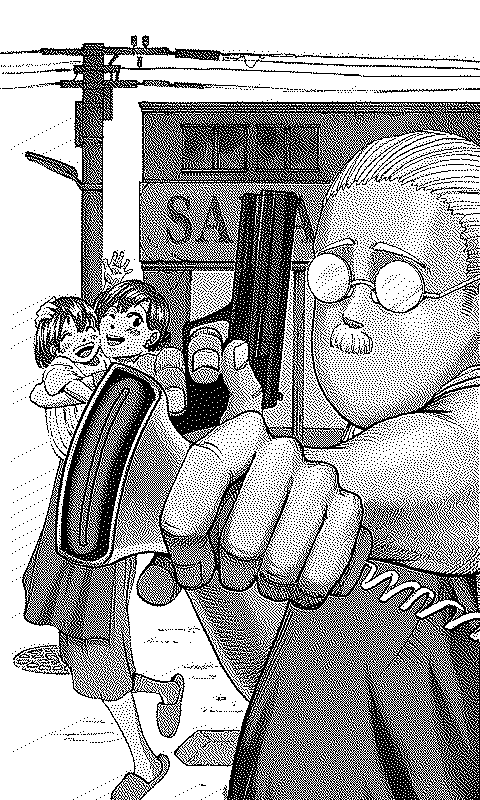
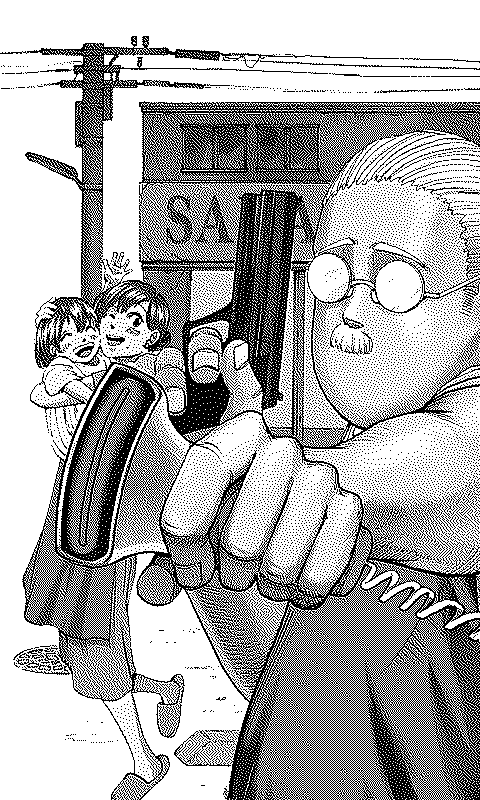
refactor landscape splitting
Replaced --landscape-rtl with --landscape-page-split <none|ltr|rtl>
Updated all dither sample images.

web2xtc.py: Restricted the +3 page offset to only apply when both --dynamic and --viewport mobile are used.

Changed region(s): [[0.0312, 0.0625, 1.0, 1.0], [0.375, 0.0625, 0.4688, 0.0938], [0.2812, 0.0312, 0.3125, 0.0938]]

diff --git a/cbz2xtcpoppler.py b/cbz2xtcpoppler.py
@@ -793,6 +793,9 @@ def optimize_image(img_data, output_path_base, page_num, suffix="", overlap_perc
         # We split most pages that are vertical. 
         should_this_split = True if not is_solid else False
         
+        if is_landscape and LANDSCAPE_PAGE_SPLIT == 'none':
+            should_this_split = False
+        
         if str(page_num) in SPLIT_SPREADS_PAGES:
             if suffix == "":  
                 # we haven't recursed, this is top level.
@@ -867,7 +870,7 @@ def optimize_image(img_data, output_path_base, page_num, suffix="", overlap_perc
                 # In rotated image (-90), Top (v=0) is Left, Bottom (v=max) is Right.
                 v_list = list(range(number_of_v_segments))
                 # Default is LTR (Left then Right). RTL flag reverses this.
-                is_rtl = LANDSCAPE_RTL and not MANHWA
+                is_rtl = (LANDSCAPE_PAGE_SPLIT == 'rtl') and not MANHWA
                 if is_rtl:
                     v_list.reverse() # RTL: Left then Right (Swapped)
 
@@ -899,7 +902,7 @@ def optimize_image(img_data, output_path_base, page_num, suffix="", overlap_perc
                 part2_rotated = part2.rotate(rot, expand=True)
                 
                 # Default is LTR. RTL reverses this for landscape.
-                is_rtl = LANDSCAPE_RTL and not MANHWA
+                is_rtl = (LANDSCAPE_PAGE_SPLIT == 'rtl') and not MANHWA
                 if is_landscape:
                     if is_rtl:
                         # RTL: Left (part2) then Right (part1)
@@ -1553,7 +1556,7 @@ def main():
         print("\n  --vsplit-target <#>   try to split page vertically into # segments.")
         print("\n  --vsplit-min-overlap <float>   minimum vertical overlap between segments.")
         print("\n  --sample-set <pagenum> ...  Build a spread of contrast samples.")
-        print("\n  --landscape-rtl   Process landscape spreads from Right to Left.")
+        print("\n  --landscape-page-split <none|ltr|rtl>   Split wide pages (default: none).")
         print("\n  --manhwa <overlap-percent>  Process as long-strip webtoon. Optionally set overlap percentage (default 40). Example: --manhwa 50")
         print("\n  --clean       Automatically delete temporary PNG files after conversion.")
         print("\n  --compress    Compress output using LZ4 into an .xtcz file.")
@@ -1589,11 +1592,11 @@ def main():
     global SAMPLE_SET
     global SAMPLE_PAGES
     global PADDING_COLOR
-    global LANDSCAPE_RTL
+    global LANDSCAPE_PAGE_SPLIT
     global MANHWA
     global MANHWA_OVERLAP
     global COMPRESS
-    
+
     # New globals
     global XTC_MODE
     global DITHER_ALGO
@@ -1604,13 +1607,24 @@ def main():
 
     clean_temp = "--clean" in sys.argv
     INVERT_COLORS = "--invert" in sys.argv
-    LANDSCAPE_RTL = "--landscape-rtl" in sys.argv
     MANHWA = "--manhwa" in sys.argv
     COMPRESS = "--compress" in sys.argv
     MANHWA_OVERLAP = 40
-    
-    if "--manhwa" in sys.argv:
+    LANDSCAPE_PAGE_SPLIT = 'none'
+
+    if "--landscape-page-split" in sys.argv:
         try:
+            idx = sys.argv.index("--landscape-page-split")
+            if idx + 1 < len(sys.argv) and not sys.argv[idx+1].startswith("--"):
+                val = sys.argv[idx + 1].lower()
+                if val in ['none', 'ltr', 'rtl']:
+                    LANDSCAPE_PAGE_SPLIT = val
+                else:
+                    print(f"Warning: Unknown value '{val}' for --landscape-page-split, using default 'none'")
+        except (ValueError, IndexError):
+            print("Warning: --landscape-page-split flag missing value, using default 'none'")
+
+    if "--manhwa" in sys.argv:        try:
             idx = sys.argv.index("--manhwa")
             if idx + 1 < len(sys.argv) and not sys.argv[idx+1].startswith("--"):
                 MANHWA_OVERLAP = int(sys.argv[idx + 1])
@@ -1695,8 +1709,8 @@ def main():
     while i < len(sys.argv):
         arg = sys.argv[i]
         # Skip value args we already handled or boolean args
-        if arg in ["--dither", "--2bit", "--no-dither", "--clean", "--overlap", "--split-all", "--pad-black", "--include-overviews", "--sideways-overviews", "--gamma", "--invert", "--downscale", "--compress"]:
-            if arg == "--dither" or arg == "--gamma" or arg == "--downscale":
+        if arg in ["--dither", "--2bit", "--no-dither", "--clean", "--overlap", "--split-all", "--pad-black", "--include-overviews", "--sideways-overviews", "--gamma", "--invert", "--downscale", "--compress", "--landscape-page-split"]:
+            if arg == "--dither" or arg == "--gamma" or arg == "--downscale" or arg == "--landscape-page-split":
                  i += 1 # skip value
             # booleans are already handled
         elif arg == "--split-spreads":

diff --git a/web2xtc.py b/web2xtc.py
@@ -758,9 +758,12 @@ def optimize_image(img_data, output_path_base, page_num, suffix="", overlap_perc
         # Handle landscape images (Spreads)
         is_landscape = width >= height
 
-        # We split most pages that are vertical. 
+        # We split most pages that are vertical.
         should_this_split = True if not is_solid else False
-        
+
+        if is_landscape and LANDSCAPE_PAGE_SPLIT == 'none':
+            should_this_split = False
+
         if str(page_num) in SPLIT_SPREADS_PAGES:
             if suffix == "":  
                 # we haven't recursed, this is top level.
@@ -835,7 +838,7 @@ def optimize_image(img_data, output_path_base, page_num, suffix="", overlap_perc
                 # In rotated image (-90), Top (v=0) is Left, Bottom (v=max) is Right.
                 v_list = list(range(number_of_v_segments))
                 # Default is LTR (Left then Right). RTL flag reverses this.
-                is_rtl = LANDSCAPE_RTL and not MANHWA
+                is_rtl = (LANDSCAPE_PAGE_SPLIT == 'rtl') and not MANHWA
                 if is_rtl:
                     v_list.reverse() # RTL: Left then Right (Swapped)
 
@@ -868,7 +871,7 @@ def optimize_image(img_data, output_path_base, page_num, suffix="", overlap_perc
                 part2_rotated = part2.rotate(rot, expand=True)
                 
                 # Default is LTR. RTL reverses this for landscape.
-                is_rtl = LANDSCAPE_RTL and not MANHWA
+                is_rtl = (LANDSCAPE_PAGE_SPLIT == 'rtl') and not MANHWA
                 if is_landscape:
                     if is_rtl:
                         # RTL: Left (part2) then Right (part1)
@@ -1517,8 +1520,8 @@ def convert_png_folder_to_xtc(png_folder, output_file, source_file=None):
     for orig_page in sorted(page_ranges.keys()):
         entry = page_ranges[orig_page]
         
-        # Apply +3 page offset for chapters (User request) - Mobile Viewport Only
-        if VIEWPORT == "mobile":
+        # Apply +3 page offset for chapters (User request) - Dynamic Mobile Only
+        if DYNAMIC_MODE and VIEWPORT == "mobile":
             start_val = min(entry['start'] + 3, total_files)
             end_val = min(entry['end'] + 3, total_files)
         else:
@@ -1691,7 +1694,7 @@ def main():
         print("\n  --vsplit-target <#>   try to split page vertically into # segments.")
         print("\n  --vsplit-min-overlap <float>   minimum vertical overlap between segments.")
         print("\n  --sample-set <pagenum> ...  Build a spread of contrast samples.")
-        print("\n  --landscape-rtl   Process landscape spreads from Right to Left.")
+        print("\n  --landscape-page-split <none|ltr|rtl>   Split wide pages (default: none).")
         print("\n  --manhwa <overlap-percent>  Process as long-strip webtoon. Optionally set overlap percentage (default 40). Example: --manhwa 50")
         print("\n  --clean       Automatically delete temporary PNG files after conversion.")
         print("\n  --compress    Compress output using LZ4 into an .xtcz file.")
@@ -1704,16 +1707,29 @@ def main():
     global INCLUDE_OVERVIEWS, SIDEWAYS_OVERVIEWS, SELECT_OVERVIEWS, SELECT_OV_PAGES
     global START_PAGE, STOP_PAGE, SAMPLE_SET, SAMPLE_PAGES
     global DESIRED_V_OVERLAP_SEGMENTS, SET_H_OVERLAP_SEGMENTS, MINIMUM_V_OVERLAP_PERCENT, SET_H_OVERLAP_PERCENT
-    global MAX_SPLIT_WIDTH, PADDING_COLOR, LANDSCAPE_RTL, MANHWA, MANHWA_OVERLAP
+    global MAX_SPLIT_WIDTH, PADDING_COLOR, LANDSCAPE_PAGE_SPLIT, MANHWA, MANHWA_OVERLAP
     global XTC_MODE, DITHER_ALGO, DOWNSCALE_FILTER, GAMMA_VALUE, INVERT_COLORS, VIEWPORT, COOKIES_FILE, DYNAMIC_MODE, PARALLEL_LINKS, WEBSITE_MODE, COMPRESS
 
     clean_temp = "--clean" in sys.argv
     INVERT_COLORS = "--invert" in sys.argv
-    LANDSCAPE_RTL = "--landscape-rtl" in sys.argv
     DYNAMIC_MODE = "--dynamic" in sys.argv
     PARALLEL_LINKS = "--parallel-links" in sys.argv
     COMPRESS = "--compress" in sys.argv    
     MANHWA_OVERLAP = 40
+    LANDSCAPE_PAGE_SPLIT = 'none'
+
+    if "--landscape-page-split" in sys.argv:
+        try:
+            idx = sys.argv.index("--landscape-page-split")
+            if idx + 1 < len(sys.argv) and not sys.argv[idx+1].startswith("--"):
+                val = sys.argv[idx + 1].lower()
+                if val in ['none', 'ltr', 'rtl']:
+                    LANDSCAPE_PAGE_SPLIT = val
+                else:
+                    print(f"Warning: Unknown value '{val}' for --landscape-page-split, using default 'none'")
+        except (ValueError, IndexError):
+            print("Warning: --landscape-page-split flag missing value, using default 'none'")
+
     if "--manhwa" in sys.argv:
         try:
             idx = sys.argv.index("--manhwa")

diff --git a/cbz2xtc.py b/cbz2xtc.py
@@ -791,6 +791,9 @@ def optimize_image(img_data, output_path_base, page_num, suffix="", overlap_perc
         # We split most pages that are vertical. 
         should_this_split = True if not is_solid else False
         
+        if is_landscape and LANDSCAPE_PAGE_SPLIT == 'none':
+            should_this_split = False
+        
         if str(page_num) in SPLIT_SPREADS_PAGES:
             if suffix == "":  
                 # we haven't recursed, this is top level.
@@ -903,7 +906,7 @@ def optimize_image(img_data, output_path_base, page_num, suffix="", overlap_perc
                 v_list = list(range(number_of_v_segments))
                 if is_landscape:
                     # Default is LTR (Left then Right). RTL flag reverses this.
-                    is_rtl = LANDSCAPE_RTL and not MANHWA
+                    is_rtl = (LANDSCAPE_PAGE_SPLIT == 'rtl') and not MANHWA
                     if is_rtl:
                         v_list.reverse() # RTL: Left then Right (Swapped)
 
@@ -938,7 +941,7 @@ def optimize_image(img_data, output_path_base, page_num, suffix="", overlap_perc
                 part2_rotated = part2.rotate(rot, expand=True)
                 
                 # Default is LTR. RTL reverses this for landscape.
-                is_rtl = LANDSCAPE_RTL and not MANHWA
+                is_rtl = (LANDSCAPE_PAGE_SPLIT == 'rtl') and not MANHWA
                 if is_landscape:
                     if is_rtl:
                         # RTL: Left (part2) then Right (part1)
@@ -1570,7 +1573,7 @@ def main():
         print("\n  --vsplit-target <#>   try to split page vertically into # segments.")
         print("\n  --vsplit-min-overlap <float>   minimum vertical overlap between segments.")
         print("\n  --sample-set <pagenum> ...  Build a spread of contrast samples.")
-        print("\n  --landscape-rtl   Process landscape spreads from Right to Left.")
+        print("\n  --landscape-page-split <none|ltr|rtl>   Split wide pages (default: none).")
         print("\n  --manhwa <overlap-percent>  Process as long-strip webtoon. Optionally set overlap percentage (default 40). Example: --manhwa 50")
         print("\n  --clean       Automatically delete temporary PNG files after conversion.")
         print("\n  --compress    Compress output using LZ4 into an .xtcz file.")
@@ -1606,7 +1609,7 @@ def main():
     global SAMPLE_SET
     global SAMPLE_PAGES
     global PADDING_COLOR
-    global LANDSCAPE_RTL
+    global LANDSCAPE_PAGE_SPLIT
     global MANHWA
     global MANHWA_OVERLAP
     global COMPRESS
@@ -1621,11 +1624,23 @@ def main():
 
     clean_temp = "--clean" in sys.argv
     INVERT_COLORS = "--invert" in sys.argv
-    LANDSCAPE_RTL = "--landscape-rtl" in sys.argv
     MANHWA = "--manhwa" in sys.argv
     COMPRESS = "--compress" in sys.argv
     MANHWA_OVERLAP = 40
+    LANDSCAPE_PAGE_SPLIT = 'none'
     
+    if "--landscape-page-split" in sys.argv:
+        try:
+            idx = sys.argv.index("--landscape-page-split")
+            if idx + 1 < len(sys.argv) and not sys.argv[idx+1].startswith("--"):
+                val = sys.argv[idx + 1].lower()
+                if val in ['none', 'ltr', 'rtl']:
+                    LANDSCAPE_PAGE_SPLIT = val
+                else:
+                    print(f"Warning: Unknown value '{val}' for --landscape-page-split, using default 'none'")
+        except (ValueError, IndexError):
+            print("Warning: --landscape-page-split flag missing value, using default 'none'")
+
     if "--manhwa" in sys.argv:
         try:
             idx = sys.argv.index("--manhwa")
@@ -1712,8 +1727,8 @@ def main():
     while i < len(sys.argv):
         arg = sys.argv[i]
         # Skip value args we already handled or boolean args
-        if arg in ["--dither", "--2bit", "--no-dither", "--clean", "--overlap", "--split-all", "--pad-black", "--include-overviews", "--sideways-overviews", "--gamma", "--invert", "--downscale", "--compress"]:
-            if arg == "--dither" or arg == "--gamma" or arg == "--downscale":
+        if arg in ["--dither", "--2bit", "--no-dither", "--clean", "--overlap", "--split-all", "--pad-black", "--include-overviews", "--sideways-overviews", "--gamma", "--invert", "--downscale", "--compress", "--landscape-page-split"]:
+            if arg == "--dither" or arg == "--gamma" or arg == "--downscale" or arg == "--landscape-page-split":
                  i += 1 # skip value
             # booleans are already handled
         elif arg == "--split-spreads":

diff --git a/video2xtc.py b/video2xtc.py
@@ -588,7 +588,7 @@ def process_file(file_path, output_dir, temp_dir, clean_temp, file_num, total_fi
 
 def main():
     print("=" * 60)
-    print("Video to XTC Converter for XTEink X4")
+    print("Video to XTC/XTCH Converter for XTEink X4")
     print("=" * 60)
     
     if "--help" in sys.argv or "-h" in sys.argv:

diff --git a/README.md b/README.md
@@ -65,7 +65,7 @@ Open your terminal (Command Prompt on Windows, Terminal on macOS/Linux) and run:
 The default is xtc 1-bit.
 - for 2-bit manga
 ```bash
-python cbz2xtc.py --2bit --landscape-rtl --sideways-overviews --downscale bicubic
+python cbz2xtc.py --2bit --landscape-page-split rtl --sideways-overviews --downscale bicubic
 ```
 - for manhwa
 ```bash
@@ -144,7 +144,7 @@ Compresses existing `.xtc` and `.xtch` files into the LZ4-compressed `.xtcz` for
 | `--compress` | Compress output using LZ4 into an `.xtcz` file. |
 | `--downscale bicubic` | Downscaling filter: bicubic (default), bilinear, box. |
 | `--manhwa <overlap>` | Use long-strip mode (default 40% overlap) for webtoons (cbz/web only). |
-| `--landscape-rtl` | Process wide pages from Right-to-Left (for Japanese manga). |
+| `--landscape-page-split <none|ltr|rtl>` | Split wide pages. Default is none (overview only). `rtl` for Japanese manga. |
 | `--include-overviews` | Add an upright full-page preview before segments. |
 | `--sideways-overviews` | Add a rotated full-page preview (-90 degrees). |
 | `--gamma 0.7` | Brighten the image (use values like 0.5 to 0.9). |
